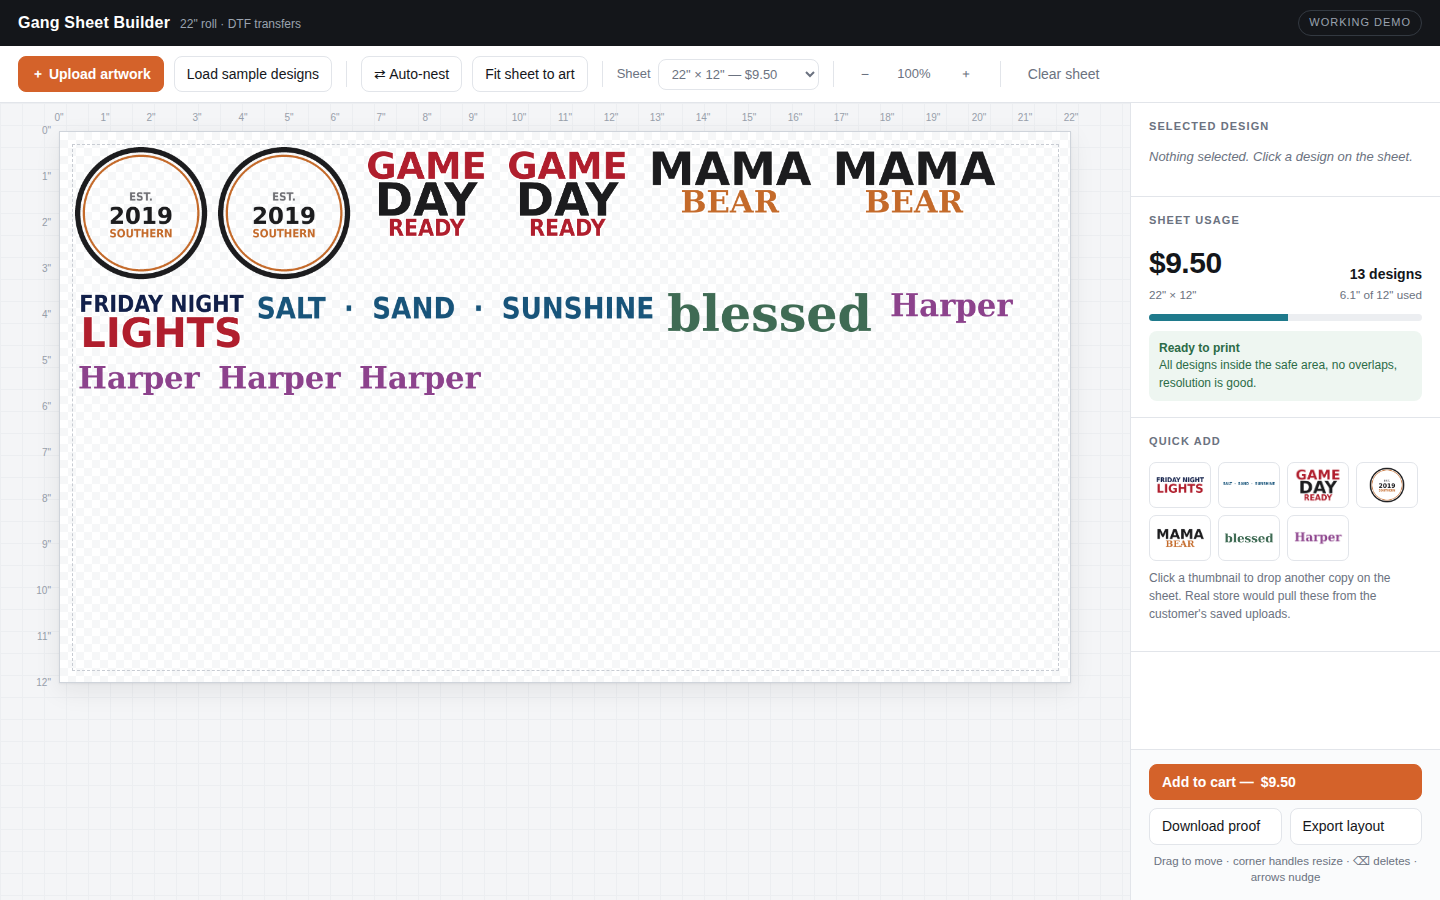
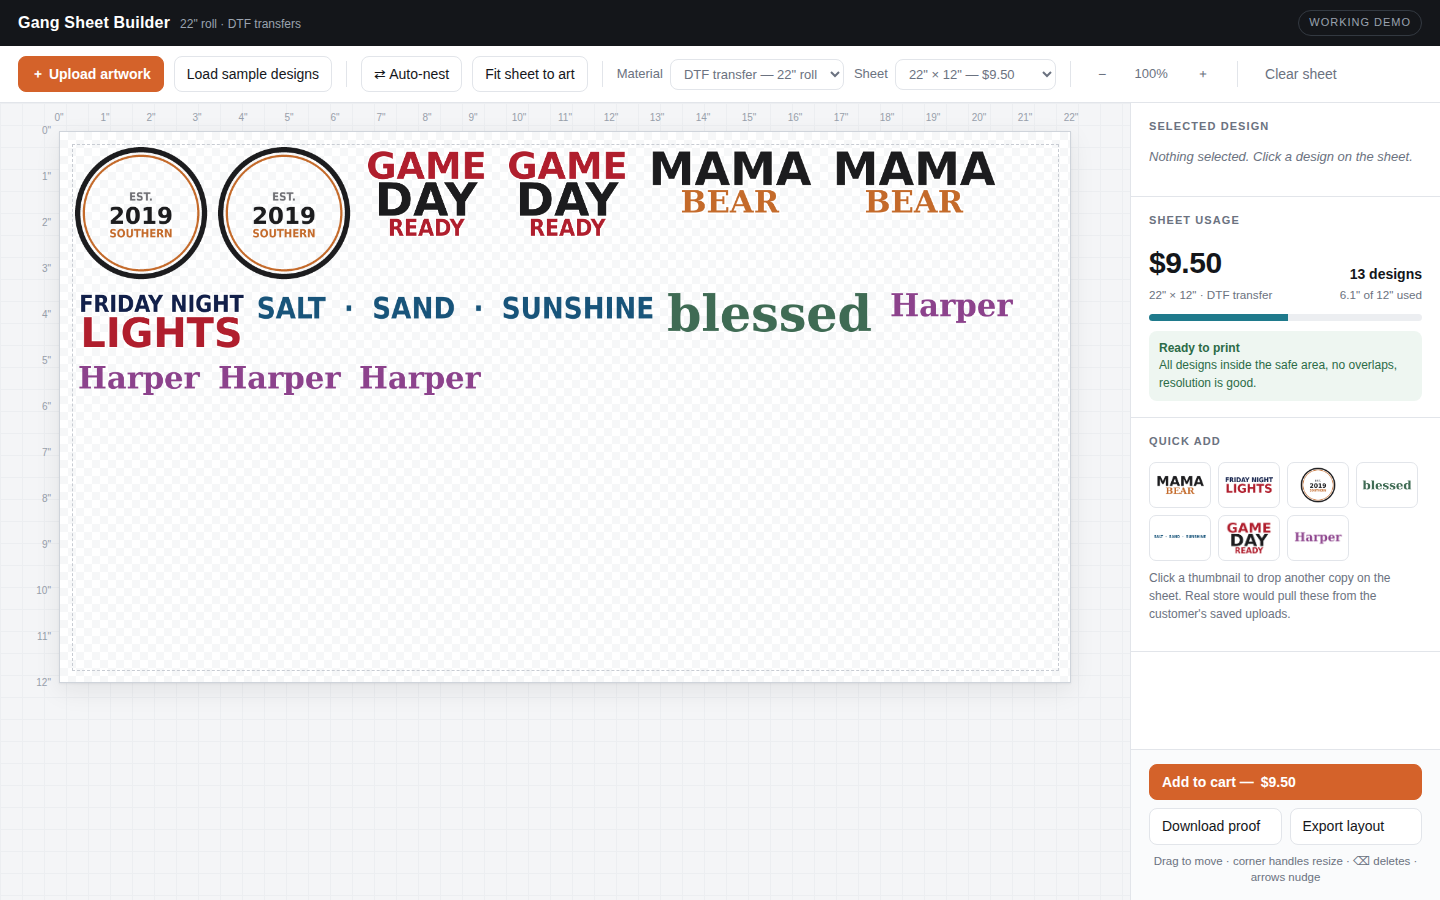
Add UV DTF material: per-material roll width and price table, repack on switch

diff --git a/index.html b/index.html
@@ -169,7 +169,7 @@
 <body>
 <div class="app">
   <header>
-    <div class="brand"><b>Gang Sheet Builder</b><span>22&quot; roll · DTF transfers</span></div>
+    <div class="brand"><b>Gang Sheet Builder</b><span id="brandSub">22&quot; roll · DTF transfers</span></div>
     <div class="tag">Working demo</div>
   </header>
 
@@ -181,6 +181,13 @@
     <button class="btn" id="btnNest">⇄ Auto-nest</button>
     <button class="btn" id="btnFit">Fit sheet to art</button>
     <div class="sep"></div>
+    <div class="field">
+      <label for="mat">Material</label>
+      <select id="mat">
+        <option value="dtf">DTF transfer — 22&quot; roll</option>
+        <option value="uvdtf">UV DTF — 16&quot; roll</option>
+      </select>
+    </div>
     <div class="field">
       <label for="len">Sheet</label>
       <select id="len"></select>
@@ -249,22 +256,32 @@
    Units: everything is stored in INCHES. Screen pixels = inches * SCALE * zoom.
    ------------------------------------------------------------------ */
 
-const SHEET_W   = 22;      // roll width, inches
 const MARGIN    = 0.25;    // safe margin, inches
 const GUTTER    = 0.125;   // spacing between designs when nesting, inches
 const BASE_DPI  = 300;     // assumed artwork DPI when sizing an upload
 const MIN_DPI   = 150;     // below this we warn the customer
 const PROOF_DPI = 100;     // proof export resolution (production render is 300 server-side)
 
-// Length tiers -> price. Same shape a real shop plugs their own pricing into.
-const TIERS = [
-  {in:12,  price: 9.50},
-  {in:24,  price:17.00},
-  {in:36,  price:24.00},
-  {in:48,  price:30.00},
-  {in:60,  price:36.00},
-  {in:120, price:68.00},
-];
+// Materials -> roll width + length tiers -> price.
+// PLACEHOLDER NUMBERS. A shop drops its own widths and price list in here.
+const MATERIALS = {
+  dtf: {
+    label: 'DTF transfer', width: 22,
+    tiers: [
+      {in:12,  price: 9.50}, {in:24, price:17.00}, {in:36,  price:24.00},
+      {in:48,  price:30.00}, {in:60, price:36.00}, {in:120, price:68.00},
+    ],
+  },
+  uvdtf: {
+    label: 'UV DTF', width: 16,
+    tiers: [
+      {in:12,  price:13.00}, {in:24, price:24.00}, {in:36,  price:34.00},
+      {in:48,  price:43.00}, {in:60, price:51.00}, {in:120, price:96.00},
+    ],
+  },
+};
+
+let SHEET_W = MATERIALS.dtf.width;   // roll width, inches — follows the material
 
 const SAMPLES = [
   'samples/mama-bear.png','samples/friday-night-lights.png','samples/blessed.png',
@@ -274,7 +291,8 @@ const SAMPLES = [
 
 const state = {
   items: [],          // {id,src,img,x,y,w,h,rot,natW,natH,el}
-  tier: TIERS[1],
+  matKey: 'dtf',
+  tier: MATERIALS.dtf.tiers[1],
   zoom: 1,
   selId: null,
   nextId: 1,
@@ -460,12 +478,13 @@ function usedLength(){
 function fitSheet(){
   autoNest();
   const need = usedLength();
-  const tier = TIERS.find(t => t.in >= need) || TIERS[TIERS.length-1];
+  const tiers = MATERIALS[state.matKey].tiers;
+  const tier = tiers.find(t => t.in >= need) || tiers[tiers.length-1];
   setTier(tier.in);
 }
 
 function setTier(inches){
-  state.tier = TIERS.find(t=>t.in===+inches) || state.tier;
+  state.tier = MATERIALS[state.matKey].tiers.find(t=>t.in===+inches) || state.tier;
   $('#len').value = state.tier.in;
   // Pull anything that now hangs off the bottom back onto the sheet.
   for(const it of state.items){
@@ -485,7 +504,7 @@ function refresh(){
   $('#count').textContent = n + (n===1 ? ' design' : ' designs');
   $('#price').textContent = '$'+state.tier.price.toFixed(2);
   $('#cartPrice').textContent = '$'+state.tier.price.toFixed(2);
-  $('#sheetLbl').textContent = '22" × '+state.tier.in+'"';
+  $('#sheetLbl').textContent = SHEET_W+'" × '+state.tier.in+'" · '+MATERIALS[state.matKey].label;
 
   // Utilisation that actually matters for price: how much of the sheet LENGTH is used.
   const used = usedLength();
@@ -710,7 +729,7 @@ function proof(){
       ctx.restore();
       if(--pending===0){
         const a=document.createElement('a');
-        a.download='gangsheet-22x'+state.tier.in+'-proof.png';
+        a.download=state.matKey+'-gangsheet-'+SHEET_W+'x'+state.tier.in+'-proof.png';
         a.href=c.toDataURL('image/png'); a.click();
       }
     };
@@ -720,7 +739,8 @@ function proof(){
 
 function exportJson(){
   const data = {
-    sheet:{widthIn:SHEET_W, lengthIn:state.tier.in, marginIn:MARGIN, price:state.tier.price},
+    sheet:{material:MATERIALS[state.matKey].label, widthIn:SHEET_W, lengthIn:state.tier.in,
+           marginIn:MARGIN, price:state.tier.price},
     designs: state.items.map(it=>({
       file:it.src.startsWith('data:')?'(uploaded)':it.src,
       xIn:+it.x.toFixed(3), yIn:+it.y.toFixed(3),
@@ -737,13 +757,43 @@ function exportJson(){
 /* ---------------- wiring ---------------- */
 
 const lenSel = $('#len');
-TIERS.forEach(t=>{
-  const o=document.createElement('option');
-  o.value=t.in; o.textContent='22" × '+t.in+'"  —  $'+t.price.toFixed(2);
-  lenSel.appendChild(o);
-});
-lenSel.value = state.tier.in;
+function fillLengths(){
+  lenSel.innerHTML='';
+  MATERIALS[state.matKey].tiers.forEach(t=>{
+    const o=document.createElement('option');
+    o.value=t.in; o.textContent=SHEET_W+'" × '+t.in+'"  —  $'+t.price.toFixed(2);
+    lenSel.appendChild(o);
+  });
+  lenSel.value = state.tier.in;
+}
+fillLengths();
 lenSel.onchange = e => setTier(e.target.value);
+
+function setMaterial(key){
+  if(!MATERIALS[key]) return;
+  state.matKey = key;
+  const mat = MATERIALS[key];
+  SHEET_W = mat.width;
+  // Keep the same length if this material offers it, otherwise the nearest one.
+  state.tier = mat.tiers.find(t=>t.in===state.tier.in) || mat.tiers[1];
+  $('#brandSub').textContent = mat.width+'" roll · '+mat.label;
+  // A narrower roll can leave art hanging off the right edge — pull it back in.
+  for(const it of state.items){
+    const maxW = SHEET_W - MARGIN*2;
+    if(it.w > maxW){ it.h *= maxW/it.w; it.w = maxW; }
+    const b = aabb(it);
+    if(b.x + b.w > SHEET_W - MARGIN) it.x -= (b.x + b.w) - (SHEET_W - MARGIN);
+    if(aabb(it).x < MARGIN) it.x += MARGIN - aabb(it).x;
+  }
+  fillLengths();
+  computeScale();
+  layoutSheet();
+  // The roll width changed under the layout, so repack it rather than leaving a pile of overlaps.
+  autoNest();
+  if(usedLength() > state.tier.in) fitSheet();
+  refresh();
+}
+$('#mat').onchange = e => setMaterial(e.target.value);
 
 $('#btnNest').onclick    = autoNest;
 $('#btnFit').onclick     = fitSheet;
@@ -758,7 +808,7 @@ $('#btnJson').onclick    = exportJson;
 $('#btnCart').onclick    = ()=>{
   if(!state.items.length) return alert('Add some designs first.');
   alert('Demo only — in the live store this posts the layout + proof to the cart as a '+
-        '22" × '+state.tier.in+'" gang sheet at $'+state.tier.price.toFixed(2)+
+        SHEET_W+'" × '+state.tier.in+'" '+MATERIALS[state.matKey].label+' gang sheet at $'+state.tier.price.toFixed(2)+
         ', and the print-ready 300 DPI file is generated server-side for your production queue.');
 };
 

diff --git a/README.md b/README.md
@@ -13,6 +13,9 @@ A browser-based DTF gang sheet builder: the customer uploads their artwork, arra
   (snaps to 15°, hold Shift for free rotation), arrow keys nudge, Shift+arrow nudges 1".
 - **Auto-nest** packs every design with a 0.125" gutter using shelf packing.
   **Fit sheet to art** nests and then drops to the smallest length tier that fits.
+- **Two materials** — DTF on a 22" roll and UV DTF on a 16" roll, each with its own price
+  table. Switching material repacks the layout for the new roll width instead of leaving a
+  pile of overlaps.
 - **Live pricing** by length tier (12" / 24" / 36" / 48" / 60" / 120"), with a usage meter
   showing how much of the sheet the customer is actually paying for.
 - **Pre-flight checks**, live, before they can order:
@@ -26,8 +29,8 @@ A browser-based DTF gang sheet builder: the customer uploads their artwork, arra
 - The proof renders at 100 DPI in-browser to keep memory sane. In production the print-ready
   300 DPI file (6600 px wide) is rendered server-side from the JSON layout when the order is
   placed — that keeps the customer's browser out of it entirely.
-- Length tiers and prices live in the `TIERS` array at the top of the script — a shop plugs
-  in their own numbers there.
+- Roll widths, length tiers and prices live in the `MATERIALS` object at the top of the
+  script — a shop plugs in their own numbers there. The ones shipped here are placeholders.
 - No build step, no dependencies. Open `index.html`.
 
 ## Files
